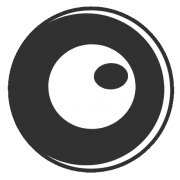
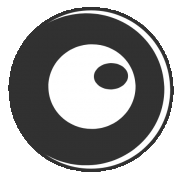
modify og image

diff --git a/components/layout.js b/components/layout.js
@@ -1,75 +1,72 @@
-import Head from 'next/head'
-import styles from './layout.module.css'
-import utilStyles from '../styles/utils.module.css'
-import Link from 'next/link'
+import Head from "next/head";
+import styles from "./layout.module.css";
+import utilStyles from "../styles/utils.module.css";
+import Link from "next/link";
 
-export const siteTitle = '無趣味人'
+export const siteTitle = "無趣味人";
 
-export default function Layout({ children, home }) {
-    return (
-      <div className={styles.container}>
-        <Head>
-          <link rel="icon" href="/favicon.ico" />
-          <meta name="description" content="CJのウェブサイト" />
-          <meta
-            property="og:image"
-            content={`https://ogi-api.vercel.app/${encodeURI(
-              siteTitle
-            )}.png?theme=light&md=0&fontSize=75px&images=https%3A%2F%2Fcjtheone.net%2Fprofile.png`}
-          />
-          <meta name="og:title" content={siteTitle} />
-          <meta name="twitter:card" content="summary_large_image" />
-          <script
-            data-goatcounter="https://cjtheone.goatcounter.com/count"
-            async
-            src="//gc.zgo.at/count.js"
-          ></script>
-        </Head>
-        <header className={styles.header}>
-          {home ? (
-            <>
-              <img
-                src="/profile.png"
-                className={`${styles.headerHomeImage} ${utilStyles.borderCircle}`}
-                alt={siteTitle}
-              />
-              <h1 className={utilStyles.heading2Xl}>{siteTitle}</h1>
-            </>
-          ) : (
-            <>
-              <Link href="/">
-                <a>
-                  <img
-                    src="/profile.png"
-                    className={`${styles.headerImage} ${utilStyles.borderCircle}`}
-                    alt={siteTitle}
-                  />
-                </a>
-              </Link>
-              <h2 className={utilStyles.headingLg}>
-                <Link href="/">
-                  <a className={utilStyles.colorInherit}>{siteTitle}</a>
-                </Link>
-              </h2>
-            </>
-          )}
-        </header>
-        <main>{children}</main>
-        {!home && (
-          <div className={styles.backToHome}>
+export default function Layout({ children, home, title }) {
+  const pageTitle = home ? `${siteTitle}` : `${title} - ${siteTitle}`;
+  return (
+    <div className={styles.container}>
+      <Head>
+        <link rel="icon" href="/favicon.ico" />
+        <meta name="description" content="CJのウェブサイト" />
+        <title>{pageTitle}</title>
+        <meta name="og:title" content={pageTitle} />
+        <meta property="og:image" content="https://cjtheone.net/profile.png" />
+        <meta name="twitter:card" content="summary" />
+        <script
+          data-goatcounter="https://cjtheone.goatcounter.com/count"
+          async
+          src="//gc.zgo.at/count.js"
+        ></script>
+      </Head>
+      <header className={styles.header}>
+        {home ? (
+          <>
+            <img
+              src="/profile.png"
+              className={`${styles.headerHomeImage} ${utilStyles.borderCircle}`}
+              alt={siteTitle}
+            />
+            <h1 className={utilStyles.heading2Xl}>{siteTitle}</h1>
+          </>
+        ) : (
+          <>
             <Link href="/">
-              <a>← Back to home</a>
+              <a>
+                <img
+                  src="/profile.png"
+                  className={`${styles.headerImage} ${utilStyles.borderCircle}`}
+                  alt={siteTitle}
+                />
+              </a>
             </Link>
-          </div>
+            <h2 className={utilStyles.headingLg}>
+              <Link href="/">
+                <a className={utilStyles.colorInherit}>{siteTitle}</a>
+              </Link>
+            </h2>
+          </>
         )}
-        <footer>
-          {/* <p className={`${styles.footNote} ${utilStyles.lightText}`}>
+      </header>
+      <main>{children}</main>
+      {!home && (
+        <div className={styles.backToHome}>
+          <Link href="/">
+            <a>← Back to home</a>
+          </Link>
+        </div>
+      )}
+      <footer>
+        {/* <p className={`${styles.footNote} ${utilStyles.lightText}`}>
                     フッター
                 </p> */}
-          <p className={`${styles.copyRight} ${utilStyles.lightText}`}>
-            ©2021 CJ
-          </p>
-        </footer>
-      </div>
-    );
+        <p className={`${styles.copyRight} ${utilStyles.lightText}`}>
+          ©2021 CJ
+        </p>
+      </footer>
+    </div>
+  );
 }

diff --git a/pages/index.js b/pages/index.js
@@ -1,5 +1,4 @@
-import Head from 'next/head'
-import Layout, { siteTitle } from '../components/layout'
+import Layout from '../components/layout'
 import utilStyles from '../styles/utils.module.css'
 import { getSortedPostsData } from '../lib/posts'
 import Link from 'next/link'
@@ -17,9 +16,6 @@ export async function getStaticProps() {
 export default function Home() {
   return (
     <Layout home>
-      <Head>
-        <title>{siteTitle}</title>
-      </Head>
       <section>
         <p>
           ようこそ。ここは無趣味人ことCJのウェブサイトです。CJというのはもちろん偽名です。お仕事はとあるソフトウェアのテクニカルサポートですが、それに直接関連することはきっと書かないでしょう。
@@ -27,9 +23,7 @@ export default function Home() {
         <p>
           ところで、趣味って何でしょうね。大人になると、無難に会話を持たせるために趣味の話を持ち出す人が多くなりますが、「私の趣味は○○です」と断言してしまうのは、セルフイメージが固定化されそうで好きになれません。それに、他人から完璧には理解されたくないという気持ちは普遍的だと思いますが……いや僕だけかなぁ。
         </p>
-        <p>
-          というわけで、お暇な人はどうぞ。
-        </p>
+        <p>というわけで、お暇な人はどうぞ。</p>
       </section>
       <section className={utilStyles.padding1px}>
         <h2 className={utilStyles.headingLg}>
@@ -37,12 +31,12 @@ export default function Home() {
             <a>{postsTitle}</a>
           </Link>
         </h2>
-        <p>ほとんどは古いサイトから引っ張ってきました。日記としては全然継続できてません。</p>
+        <p>
+          ほとんどは古いサイトから引っ張ってきました。日記としては全然継続できてません。
+        </p>
       </section>
       <section className={utilStyles.padding1px}>
-        <h2 className={utilStyles.headingMd}>
-          連絡先等
-        </h2>
+        <h2 className={utilStyles.headingMd}>連絡先等</h2>
         <p>SNS等のアカウントです。ほぼ投稿しませんが。</p>
         <ul>
           <li>
@@ -51,5 +45,5 @@ export default function Home() {
         </ul>
       </section>
     </Layout>
-  )
+  );
 }

diff --git a/pages/posts/[id].js b/pages/posts/[id].js
@@ -1,39 +1,35 @@
-import Layout, { siteTitle }from '../../components/layout'
-import { getAllPostIds, getPostData } from '../../lib/posts'
-import Head from 'next/head'
-import Date from '../../components/date'
-import utilStyles from '../../styles/utils.module.css'
+import Layout from "../../components/layout";
+import { getAllPostIds, getPostData } from "../../lib/posts";
+import Date from "../../components/date";
+import utilStyles from "../../styles/utils.module.css";
 
 export async function getStaticProps({ params }) {
-    const postData = await getPostData(params.id)
-    return {
-        props: {
-            postData
-        }
-    }
+  const postData = await getPostData(params.id);
+  return {
+    props: {
+      postData,
+    },
+  };
 }
 
 export async function getStaticPaths() {
-    const paths = getAllPostIds()
-    return {
-        paths,
-        fallback: false
-    }
+  const paths = getAllPostIds();
+  return {
+    paths,
+    fallback: false,
+  };
 }
 
 export default function Post({ postData }) {
-    return (
-        <Layout>
-            <Head>
-                <title>{`${postData.title} - ${siteTitle}`}</title>
-            </Head>
-            <article>
-                <h1 className={utilStyles.headingXl}>{postData.title}</h1>
-                <div className={utilStyles.lightText}>
-                    <Date dateString={postData.date} />
-                </div>
-                <div dangerouslySetInnerHTML={{ __html: postData.contentHtml }} />
-            </article>
-        </Layout>
-    )
+  return (
+    <Layout title={postData.title}>
+      <article>
+        <h1 className={utilStyles.headingXl}>{postData.title}</h1>
+        <div className={utilStyles.lightText}>
+          <Date dateString={postData.date} />
+        </div>
+        <div dangerouslySetInnerHTML={{ __html: postData.contentHtml }} />
+      </article>
+    </Layout>
+  );
 }

diff --git a/pages/posts/index.js b/pages/posts/index.js
@@ -1,5 +1,4 @@
-import Head from 'next/head'
-import Layout, { siteTitle } from '../../components/layout'
+import Layout from '../../components/layout'
 import utilStyles from '../../styles/utils.module.css'
 import { getSortedPostsData } from '../../lib/posts'
 import Link from 'next/link'
@@ -18,10 +17,7 @@ export const postsTitle = "Blog"
 
 export default function Posts({ allPostsData }) {
   return (
-    <Layout>
-      <Head>
-        <title>{`${postsTitle} - ${siteTitle}`}</title>
-      </Head>
+    <Layout title={postsTitle}>
       <section className={`${utilStyles.headingMd} ${utilStyles.padding1px}`}>
         <h2 className={utilStyles.headingLg}>{postsTitle}</h2>
         <ul className={utilStyles.list}>
